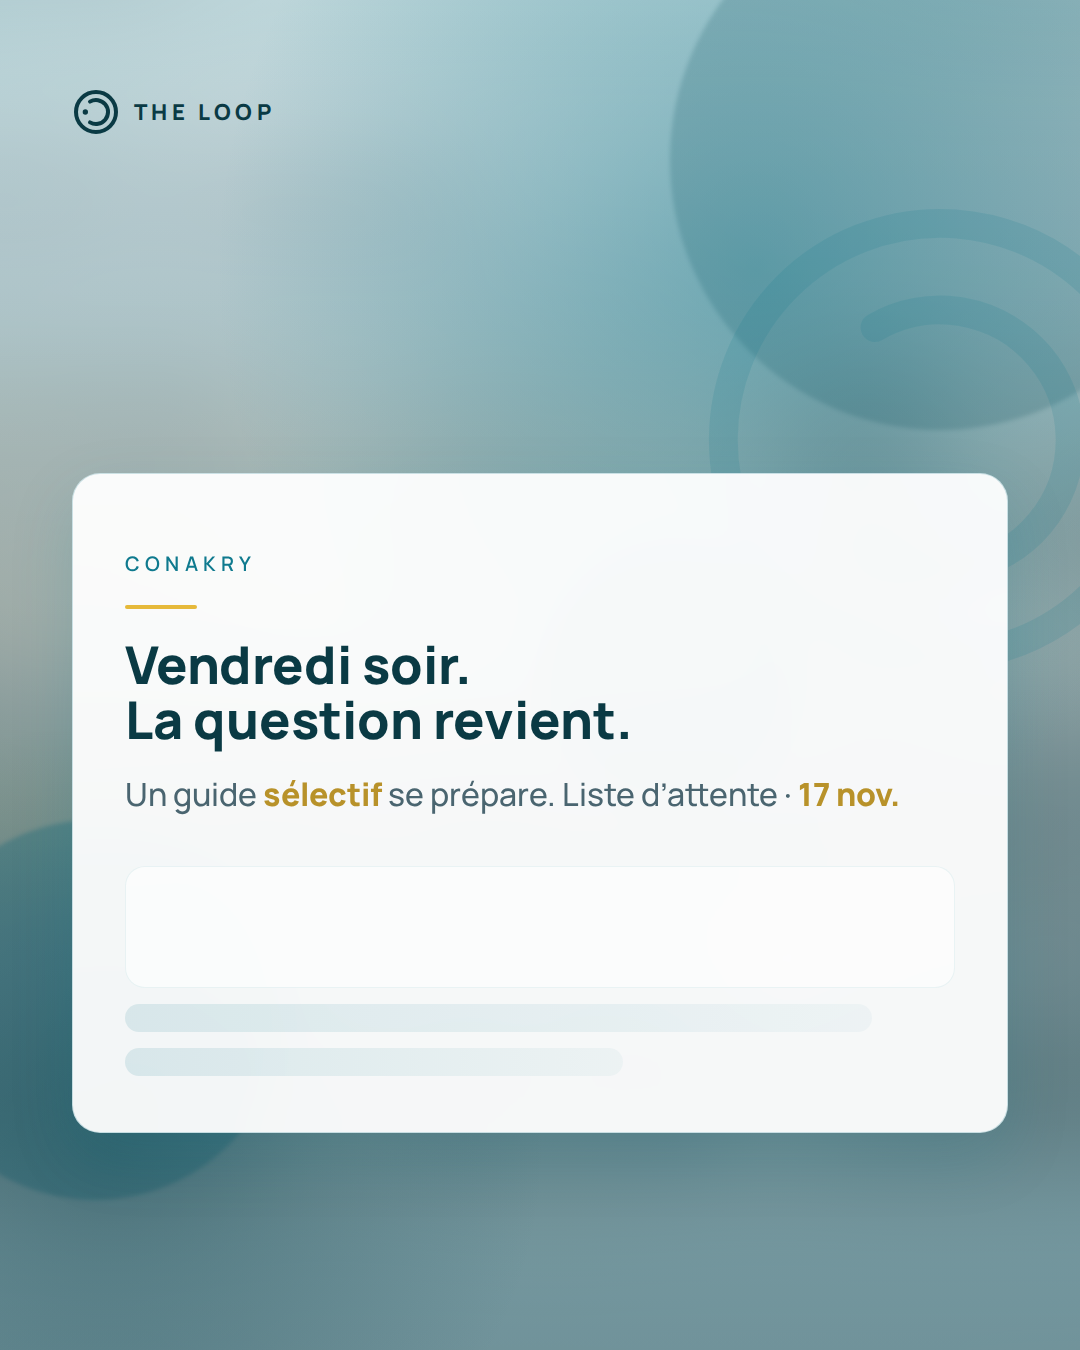
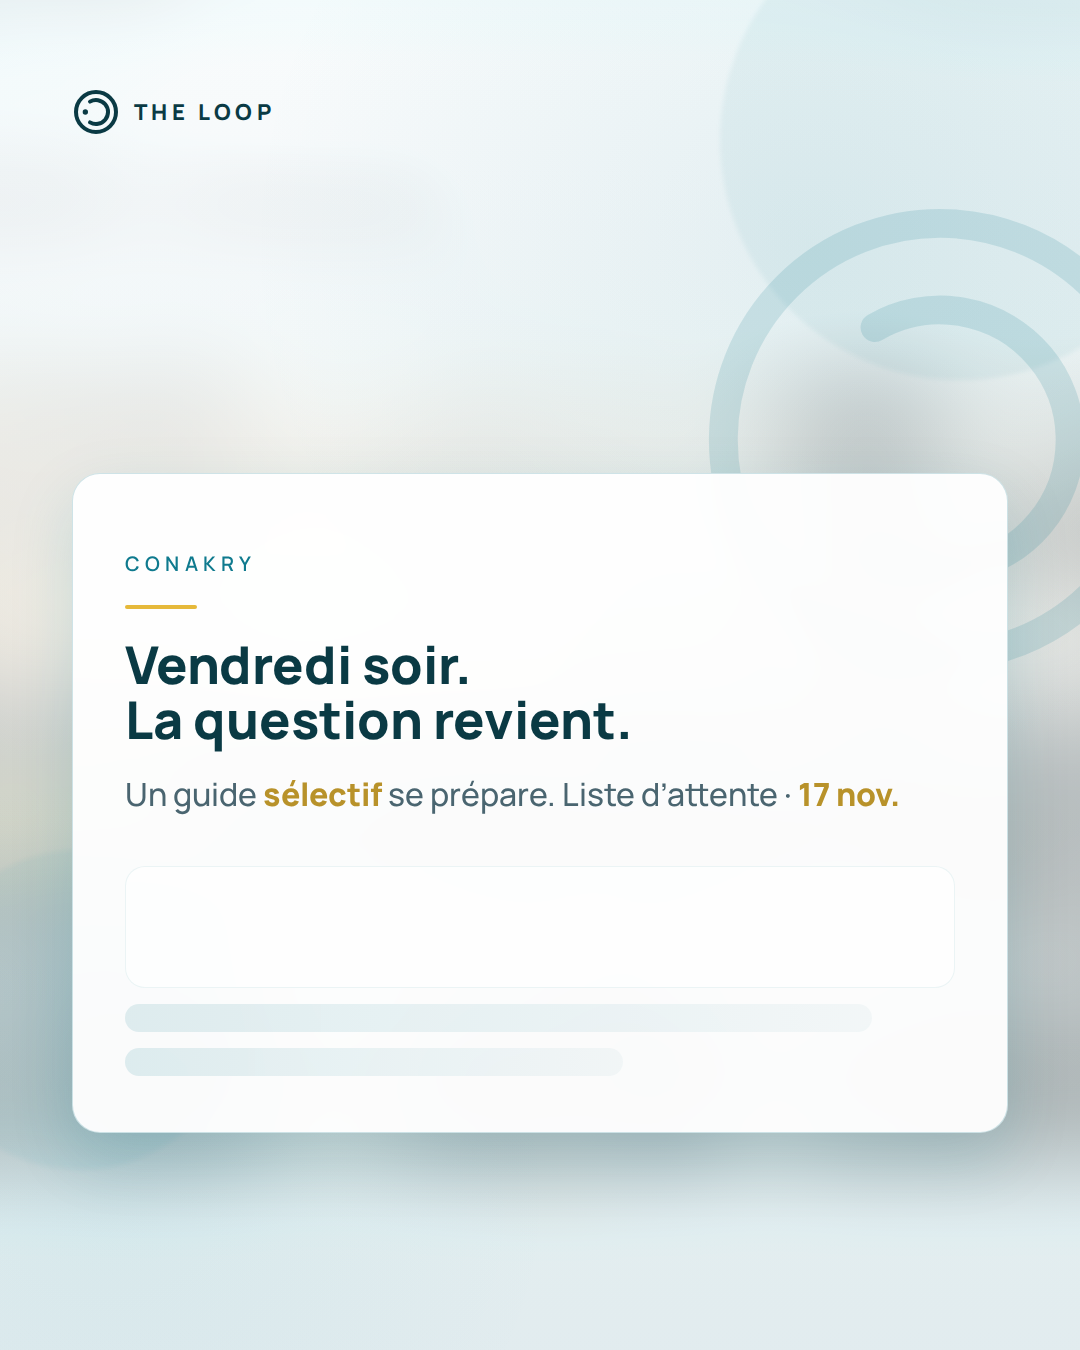
docs(com): adoucir teal fond texte niveau 1

diff --git a/docs/communication/lancement-2026/export-visuels-pack-acte-a-v4-light.html b/docs/communication/lancement-2026/export-visuels-pack-acte-a-v4-light.html
@@ -24,8 +24,8 @@
       margin: 0 auto 16px;
       position: relative;
       overflow: hidden;
-      /* Niveau 1 · dégradé clair (appliqué sur tout le pack 01/02/03) */
-      background: linear-gradient(180deg, #eef6f8 0%, #dceef2 55%, #c5e4ec 100%);
+      /* Niveau 1 adouci · teal discret */
+      background: linear-gradient(180deg, #f6fafb 0%, #eef4f6 50%, #e6eef0 100%);
       color: var(--deep);
     }
     .c.reel { height: 1920px; }
@@ -34,15 +34,15 @@
       position: absolute;
       inset: -20%;
       background: url('assets/capture-accueil-2.jpg') center 20% / cover no-repeat;
-      filter: blur(48px) saturate(0.9) brightness(1.1) hue-rotate(-4deg);
-      opacity: 0.38;
+      filter: blur(48px) saturate(0.65) brightness(1.12) hue-rotate(0deg);
+      opacity: 0.28;
     }
     .atmo-teal {
       position: absolute;
       inset: 0;
-      background: radial-gradient(ellipse 90% 70% at 75% 18%, rgba(15,122,142,0.16), transparent 55%),
-        radial-gradient(ellipse 80% 60% at 10% 88%, rgba(21,150,173,0.12), transparent 50%),
-        linear-gradient(180deg, rgba(255,255,255,0.1) 0%, rgba(15,122,142,0.1) 100%);
+      background: radial-gradient(ellipse 90% 70% at 75% 18%, rgba(15,122,142,0.08), transparent 58%),
+        radial-gradient(ellipse 80% 60% at 10% 88%, rgba(21,150,173,0.06), transparent 52%),
+        linear-gradient(180deg, rgba(255,255,255,0.15) 0%, rgba(15,122,142,0.05) 100%);
       pointer-events: none;
       z-index: 1;
     }
@@ -65,9 +65,9 @@
       border-radius: 50%;
       filter: blur(2px);
     }
-    .blob.a { width: 480px; height: 480px; background: rgba(15,122,142,0.14); top: -100px; right: -120px; }
-    .blob.b { width: 320px; height: 320px; background: rgba(21,150,173,0.12); bottom: 180px; left: -80px; }
-    .blob.c { width: 220px; height: 220px; background: rgba(15,122,142,0.1); top: 42%; left: 52%; }
+    .blob.a { width: 480px; height: 480px; background: rgba(15,122,142,0.07); top: -100px; right: -120px; }
+    .blob.b { width: 320px; height: 320px; background: rgba(21,150,173,0.06); bottom: 180px; left: -80px; }
+    .blob.c { width: 220px; height: 220px; background: rgba(15,122,142,0.05); top: 42%; left: 52%; }
     .inner {
       position: relative;
       z-index: 2;

diff --git a/docs/communication/lancement-2026/CHARTE-FOND-TEXTE.md b/docs/communication/lancement-2026/CHARTE-FOND-TEXTE.md
@@ -7,7 +7,7 @@
 
 ## Fichier source (version validée)
 - HTML : `export-visuels-pack-acte-a-v4-light.html`
-- **Style :** dégradé **niveau 1** (`#eef6f8 → #dceef2 → #c5e4ec`) + atmo légère + carte blanche + squelettes.
+- **Style :** dégradé **niveau 1 adouci** (`#f6fafb → #eef4f6 → #e6eef0`) + atmo très légère + carte blanche + squelettes.
 
 ## Pourquoi tous les visuels changent en même temps ?
 Un seul fichier **`export-visuels-pack-acte-a-v4-light.html`** contient **3 slides** (3/11 feed, Reels, 5/11). Quand on modifie le **fond** (CSS) et qu’on lance `export-slides-png-v4.mjs`, les PNG **`01_`, `02_`, `03_`** sont **regénérés** — même fond sur tout le pack.  
